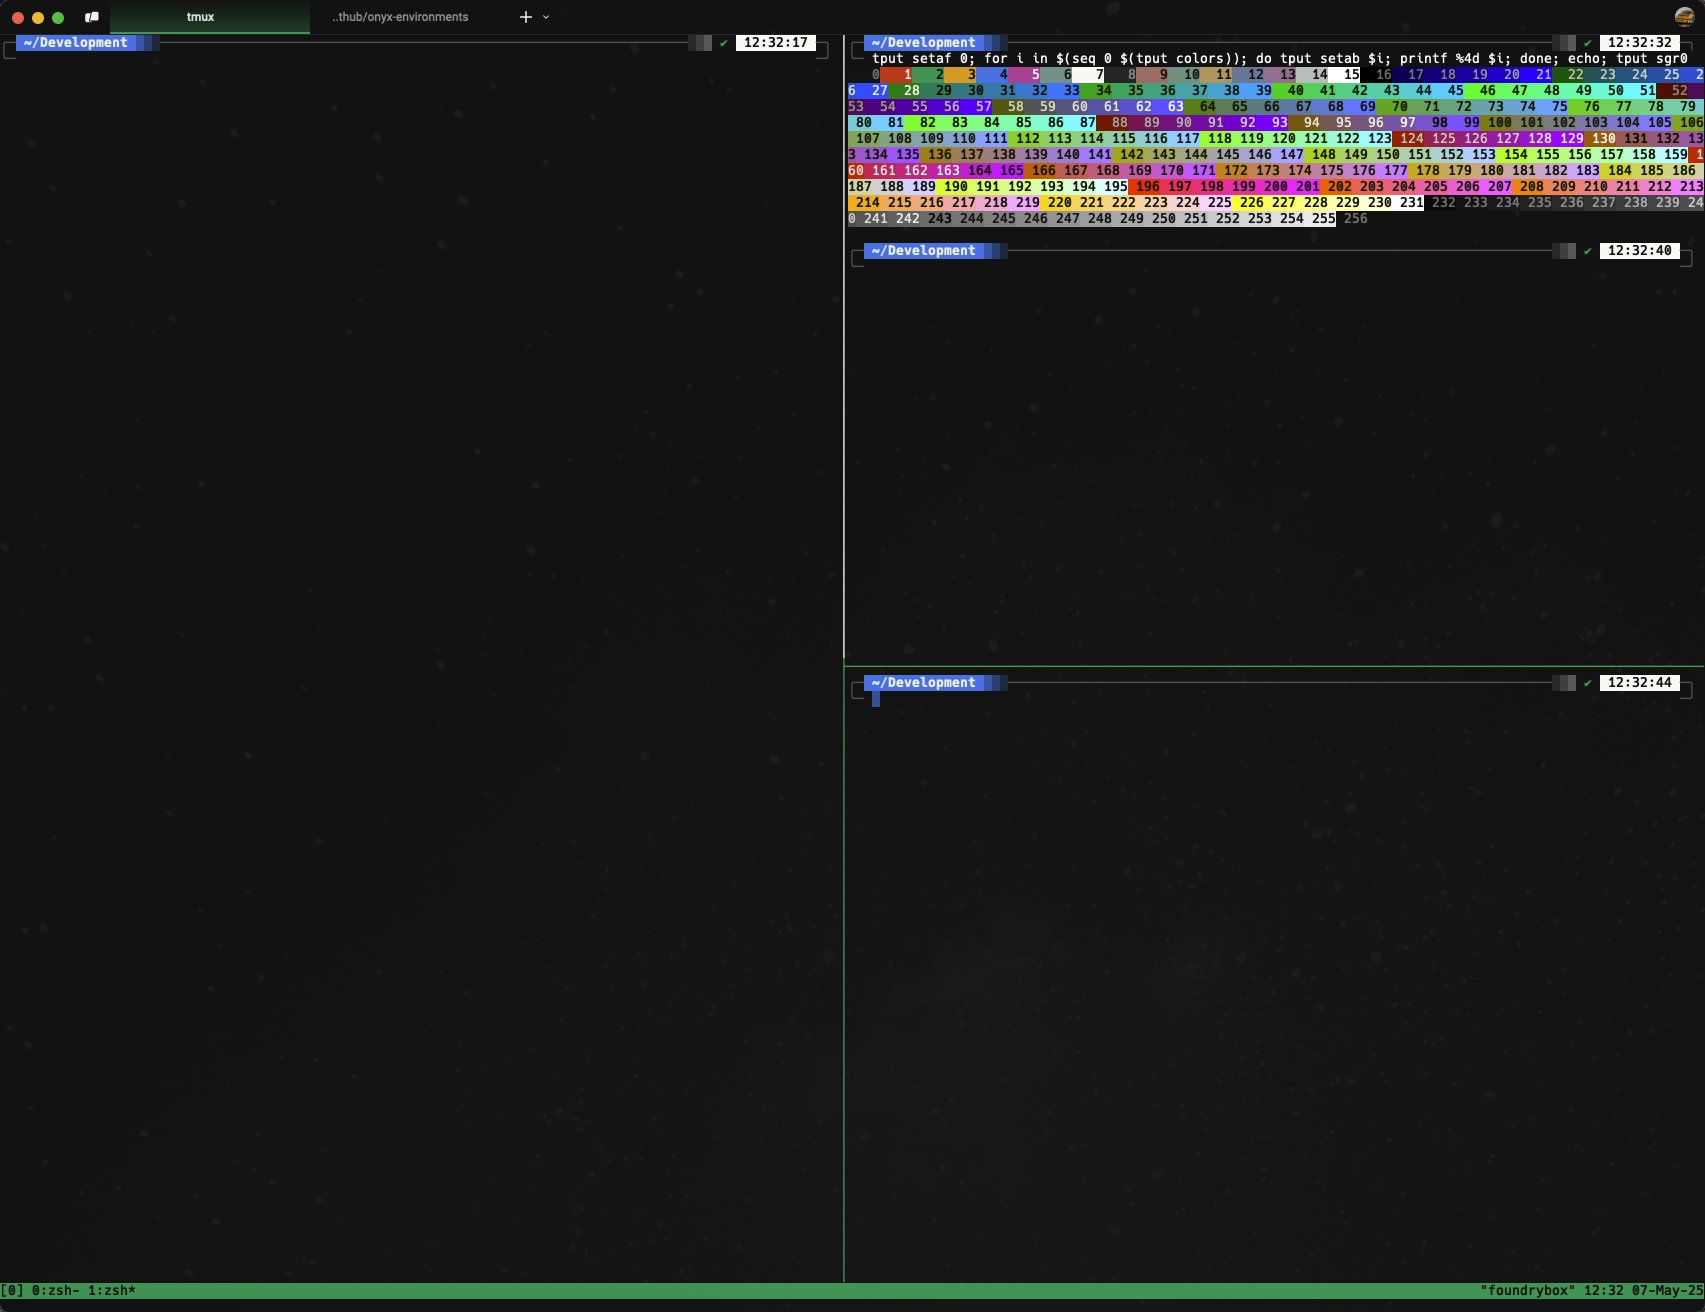
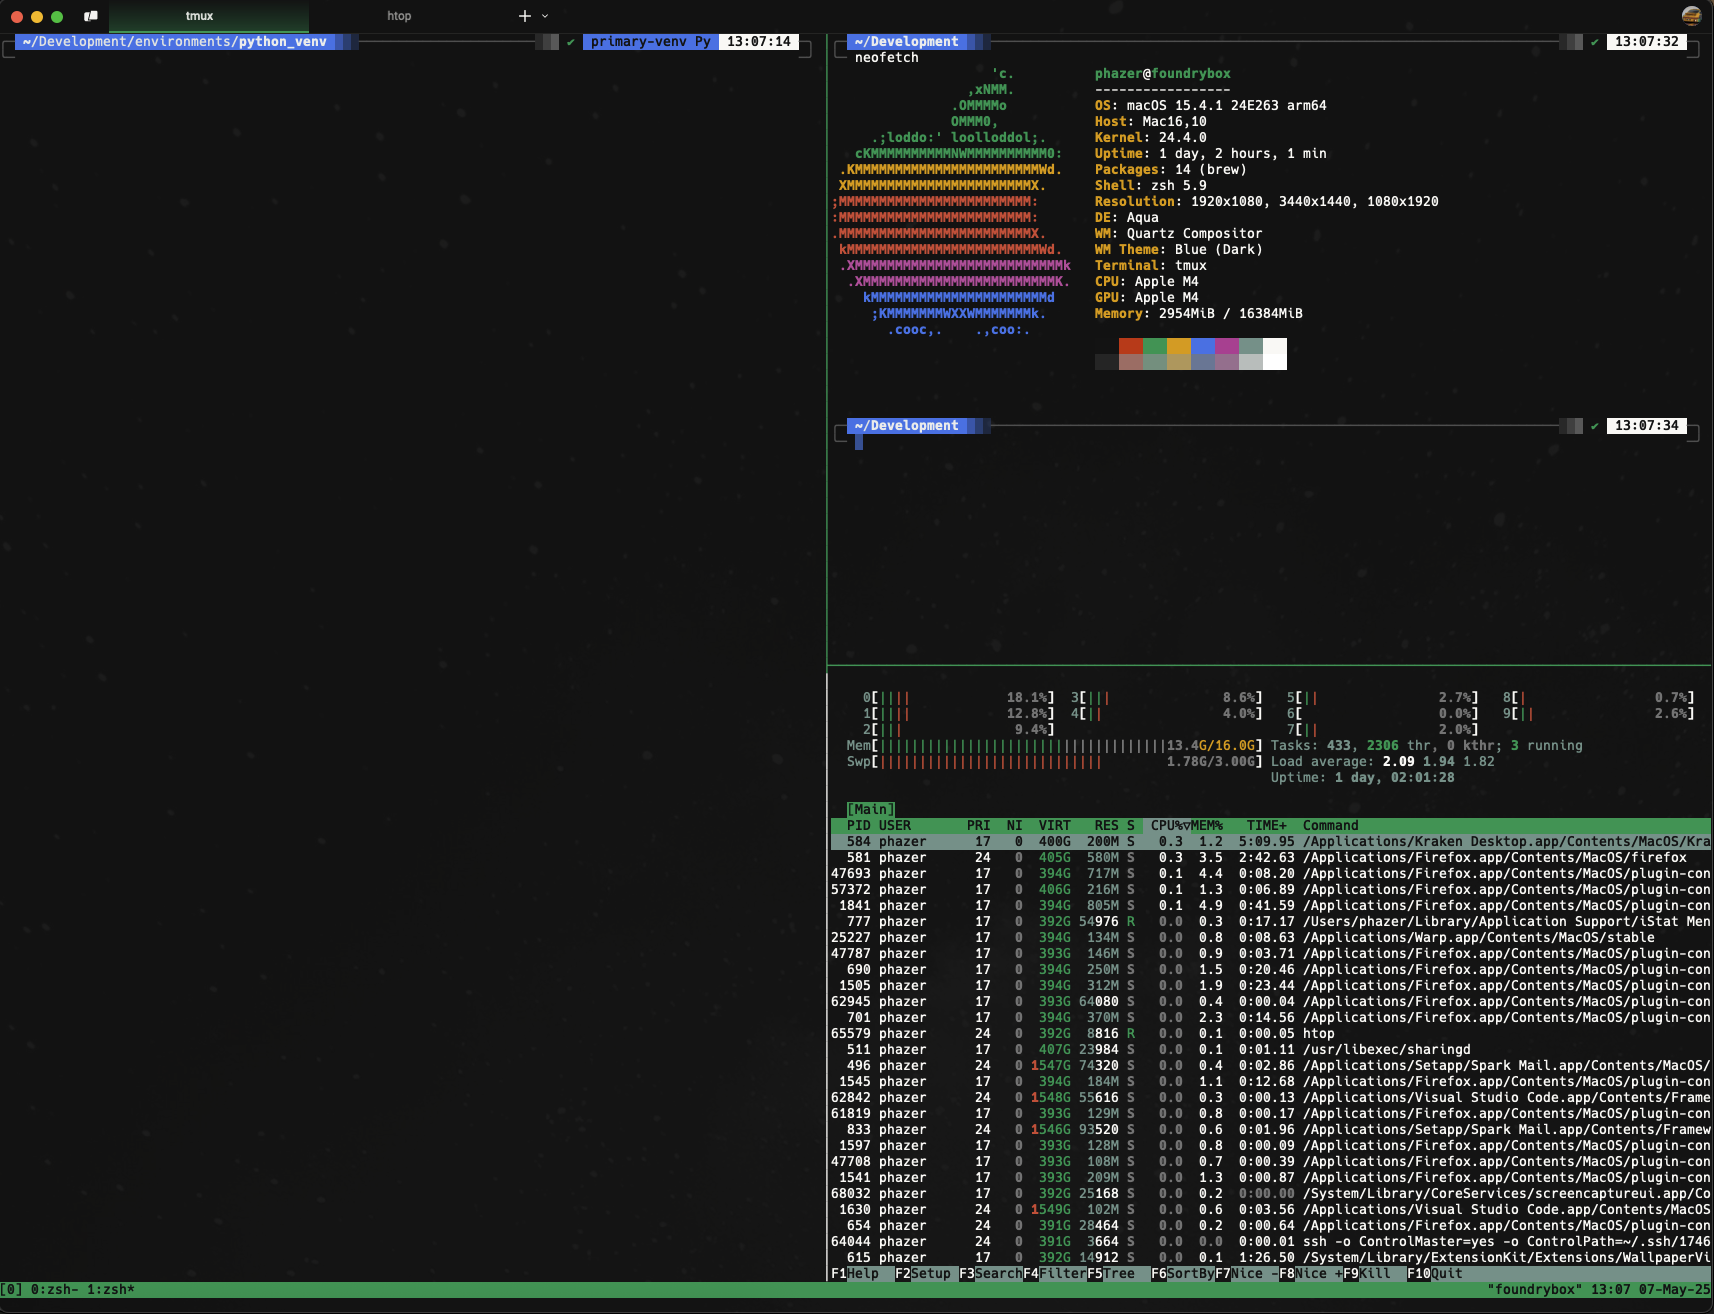
update README.md

Changed region(s): [[0.0, 0.0, 1.0, 1.0], [0.0, 0.0, 0.2798, 0.0625], [0.4663, 0.3125, 0.5906, 0.3438]]

diff --git a/README.md b/README.md
@@ -43,9 +43,16 @@ https://starship.rs/presets/
 ### Install tmux
 ![Tmux Example](./images/tmux_with_prompt_theme.png)
 
-## Dependencies
+## MacOS Configuration
 
 ### Install Brew
 /bin/bash -c "$(curl -fsSL https://raw.githubusercontent.com/Homebrew/install/HEAD/install.sh)"
 
 ** RUN suggested Path commands after
+
+### Install Python
+brew install python
+
+## Useful CLI Tools
+
+htop
